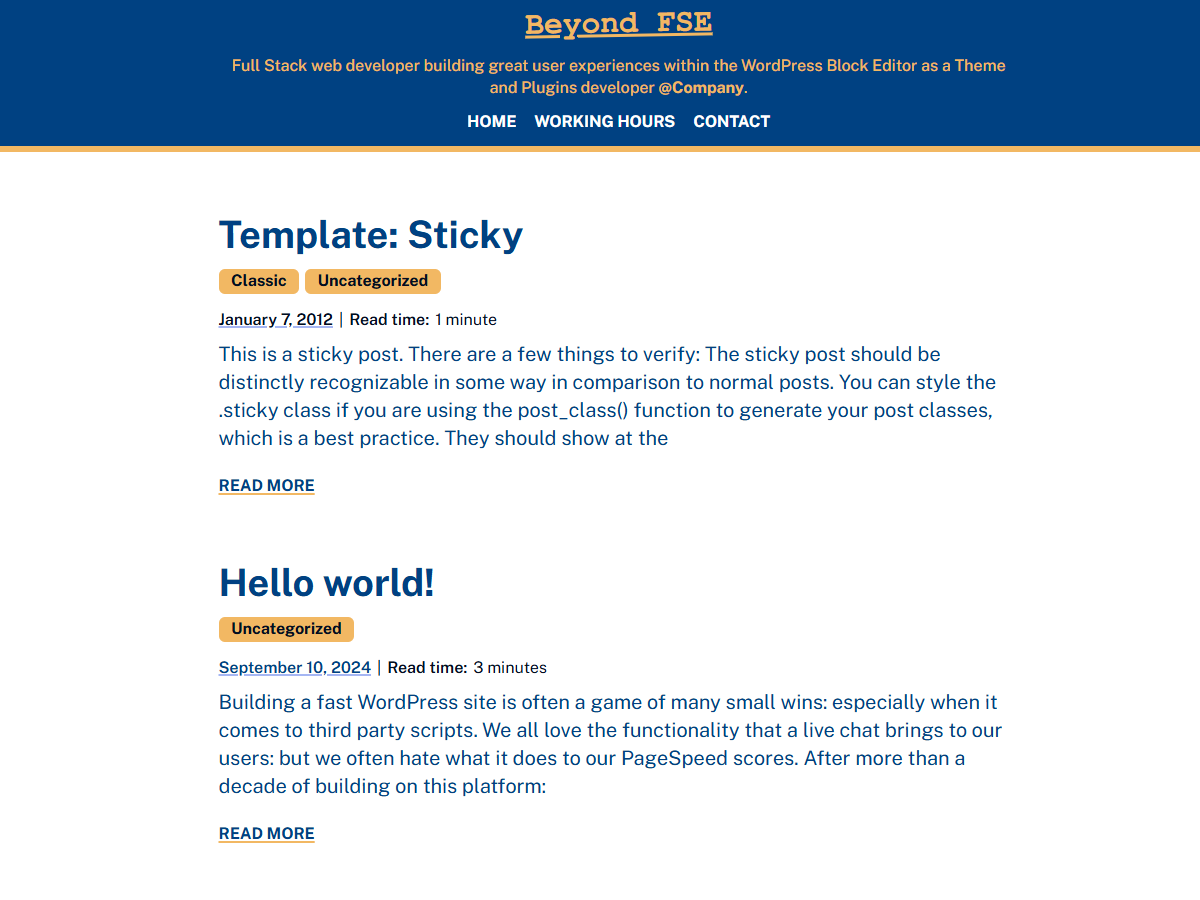
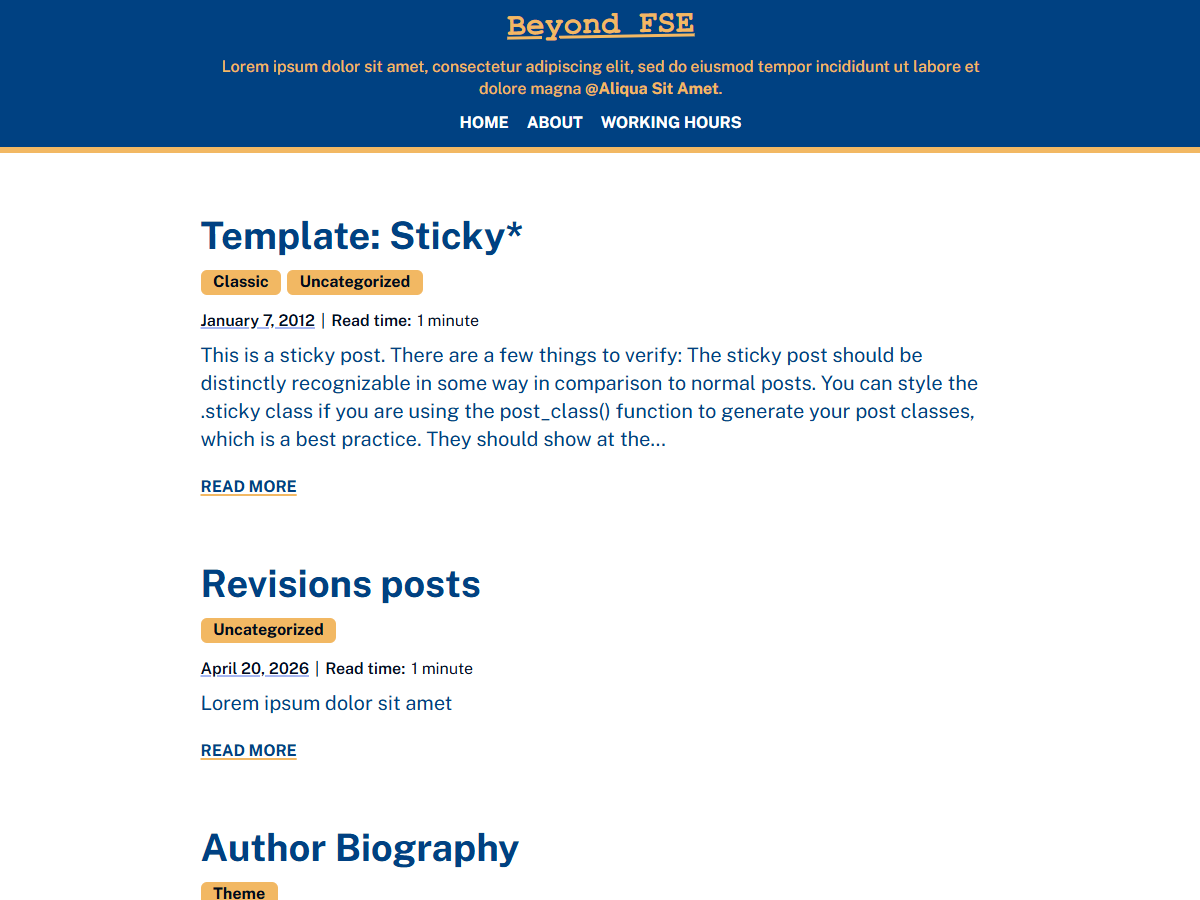
Minor pre release translation fixes and improvements.

diff --git a/parts/header.html b/parts/header.html
@@ -3,7 +3,7 @@
 <div class="wp-block-group"><!-- wp:site-title {"textAlign":"center","className":"bfse-rotate-minus-1deg","style":{"elements":{"link":{"color":{"text":"var:preset|color|warm-insight"}}}},"textColor":"warm-insight","fontSize":"large","fontFamily":"code"} /-->
 
 <!-- wp:paragraph {"align":"center","style":{"elements":{"link":{"color":{"text":"var:preset|color|warm-insight"}}},"typography":{"fontStyle":"normal","fontWeight":"500"}},"textColor":"warm-insight","fontSize":"small"} -->
-<p class="has-text-align-center has-warm-insight-color has-text-color has-link-color has-small-font-size" style="font-style:normal;font-weight:500">Full-Stack Code Weaver crafting immersive digital ecosystems within the Next-Gen Block Matrix as a Core and Module Architect <strong>@LittelPixelius Example Company</strong>.</p>
+<p class="has-text-align-center has-warm-insight-color has-text-color has-link-color has-small-font-size" style="font-style:normal;font-weight:500">Lorem ipsum dolor sit amet, consectetur adipiscing elit, sed do eiusmod tempor incididunt ut labore et dolore magna <strong>@Aliqua Sit Amet</strong>.</p>
 <!-- /wp:paragraph -->
 
 

diff --git a/style.css b/style.css
@@ -4,8 +4,8 @@ Theme URI: https://github.com/dimikjones/beyond-fse
 Author: Marko Dimitrijević
 Author URI: https://markocodes.com/
 Description: FSE WordPress theme for personal blogs featuring full site editing capabilities and exceptional performance.
-Version: 1.0.0
-Requires at least: 6.9
+Version: 1.0.1
+Requires at least: 6.8
 Tested up to: 7.0
 Requires PHP: 7.4
 License: GPLv2 or later

diff --git a/patterns/page-about.php b/patterns/page-about.php
@@ -21,30 +21,30 @@
 <!-- /wp:image -->
 
 <!-- wp:heading {"level":1,"style":{"typography":{"textAlign":"center"}}} -->
-<h1 class="wp-block-heading has-text-align-center">About me</h1>
+<h1 class="wp-block-heading has-text-align-center"><?php esc_html_e( 'About me', 'beyond-fse' ); ?></h1>
 <!-- /wp:heading -->
 
 <!-- wp:heading -->
-<h2 class="wp-block-heading">Hi there! I am a software engineer, open-source enthusiast, and digital craftsman who has spent the last decade building accessible experiences on the web.</h2>
+<h2 class="wp-block-heading"><?php esc_html_e( 'Hi there! I am a software engineer, open-source enthusiast, and digital craftsman who has spent the last decade building accessible experiences on the web.', 'beyond-fse' ); ?></h2>
 <!-- /wp:heading -->
 
 <!-- wp:paragraph -->
-<p>The journey into web development didn't start with code, but with a passion for digital storytelling and typography. Years ago, while trying to launch a small online magazine, a discovery of WordPress changed everything. What was meant to be a weekend project quickly turned into an obsession. It was fascinating to see how a few lines of styling could completely alter the mood of a page, and how dynamic code could bring content to life.</p>
+<p><?php esc_html_e( 'The journey into web development didn\'t start with code, but with a passion for digital storytelling and typography. Years ago, while trying to launch a small online magazine, a discovery of WordPress changed everything. What was meant to be a weekend project quickly turned into an obsession. It was fascinating to see how a few lines of styling could completely alter the mood of a page, and how dynamic code could bring content to life.', 'beyond-fse' ); ?></p>
 <!-- /wp:paragraph -->
 
 <!-- wp:paragraph -->
-<p>Driven by curiosity, the path led from a casual user into a self-taught developer. Over the years, this career has spanned every corner of the digital ecosystem, from agency life engineering bespoke enterprise solutions to collaborating with global product teams. Having witnessed the web evolve from rigid layouts to fluid, responsive designs, the focus today is fully immersed in the frontier of Full Site Editing, block governance, and performance-first architecture.</p>
+<p><?php esc_html_e( 'Driven by curiosity, the path led from a casual user into a self-taught developer. Over the years, this career has spanned every corner of the digital ecosystem, from agency life engineering bespoke enterprise solutions to collaborating with global product teams. Having witnessed the web evolve from rigid layouts to fluid, responsive designs, the focus today is fully immersed in the frontier of Full Site Editing, block governance, and performance-first architecture.', 'beyond-fse' ); ?></p>
 <!-- /wp:paragraph -->
 
 <!-- wp:paragraph -->
-<p>WordPress is more than just a content management system; it’s an ecosystem built on the radical idea of democratizing publishing. That philosophy dictates the entire approach to building. The focus is always on clean code, semantic markup, and creating intuitive user interfaces that empower creators rather than confusing them.</p>
+<p><?php esc_html_e( 'WordPress is more than just a content management system; it\'s an ecosystem built on the radical idea of democratizing publishing. That philosophy dictates the entire approach to building. The focus is always on clean code, semantic markup, and creating intuitive user interfaces that empower creators rather than confusing them.', 'beyond-fse' ); ?></p>
 <!-- /wp:paragraph -->
 
 <!-- wp:paragraph -->
-<p>When code editors are closed and the screen is dark, inspiration comes from simple things like brewing the perfect cup of coffee, collecting vintage vinyl records, or hitting the mountain trails for a long hike. Spending a weekend disconnected in nature often turns out to be the absolute best way to debug a complex architectural problem.</p>
+<p><?php esc_html_e( 'When code editors are closed and the screen is dark, inspiration comes from simple things like brewing the perfect cup of coffee, collecting vintage vinyl records, or hitting the mountain trails for a long hike. Spending a weekend disconnected in nature often turns out to be the absolute best way to debug a complex architectural problem.', 'beyond-fse' ); ?></p>
 <!-- /wp:paragraph -->
 
 <!-- wp:paragraph -->
-<p>Whether it is collaborating on an open-source project, discussing web performance, or exploring the future of modern block themes, the door is always open for a great conversation. Let's create something meaningful together!</p>
+<p><?php esc_html_e( 'Whether it is collaborating on an open-source project, discussing web performance, or exploring the future of modern block themes, the door is always open for a great conversation. Let\'s create something meaningful together!', 'beyond-fse' ); ?></p>
 <!-- /wp:paragraph --></div>
 <!-- /wp:group -->

diff --git a/patterns/page-now.php b/patterns/page-now.php
@@ -21,42 +21,51 @@
 <!-- /wp:image -->
 
 <!-- wp:heading {"level":1} -->
-<h1 class="wp-block-heading">What I am doing now?</h1>
+<h1 class="wp-block-heading"><?php esc_html_e( 'What I am doing now?', 'beyond-fse' ); ?></h1>
 <!-- /wp:heading -->
 
 <!-- wp:group {"style":{"spacing":{"blockGap":"var:preset|spacing|tiny"}},"layout":{"type":"flex","flexWrap":"nowrap"}} -->
 <div class="wp-block-group"><!-- wp:paragraph -->
-<p><strong>Last updated:</strong></p>
+<p><strong><?php esc_html_e( 'Last updated:', 'beyond-fse' ); ?></strong></p>
 <!-- /wp:paragraph -->
 
 <!-- wp:post-date {"metadata":{"bindings":{"datetime":{"source":"core/post-data","args":{"field":"modified"}}}},"className":"wp-block-post-date__modified-date"} /--></div>
 <!-- /wp:group -->
 
 <!-- wp:paragraph -->
-<p>This is my <strong>Now page</strong>. It’s a place where you can find out what I’m currently focused on throughout the year. My goal is to update it several times annually. While I have seen similar pages on some blogs, I was originally inspired to create mine by fellow developers in the community.</p>
+<p>
+<?php
+	printf(
+		/* translators: %1$s: <strong> tag, %2$s: </strong> tag */
+		esc_html__( 'This is my %1$sNow page%2$s. It’s a place where you can find out what I’m currently focused on throughout the year. My goal is to update it several times annually. While I have seen similar pages on some blogs, I was originally inspired to create mine by fellow developers in the community.', 'beyond-fse' ),
+		'<strong>',
+		'</strong>'
+	);
+	?>
+</p>
 <!-- /wp:paragraph -->
 
 <!-- wp:heading -->
-<h2 class="wp-block-heading">Professional Reading</h2>
+<h2 class="wp-block-heading"><?php esc_html_e( 'Professional Reading', 'beyond-fse' ); ?></h2>
 <!-- /wp:heading -->
 
 <!-- wp:paragraph -->
-<p>I’m the kind of person who learns by doing, catching up on the theory along the way. While this hands-on approach works great for me, I want to allocate more time to reading industry books and staying updated with the latest engineering trends and best practices.</p>
+<p><?php esc_html_e( 'I\'m the kind of person who learns by doing, catching up on the theory along the way. While this hands-on approach works great for me, I want to allocate more time to reading industry books and staying updated with the latest engineering trends and best practices.', 'beyond-fse' ); ?></p>
 <!-- /wp:paragraph -->
 
 <!-- wp:heading -->
-<h2 class="wp-block-heading">Blogging & Sharing Knowledge</h2>
+<h2 class="wp-block-heading"><?php esc_html_e( 'Blogging & Sharing Knowledge', 'beyond-fse' ); ?></h2>
 <!-- /wp:heading -->
 
 <!-- wp:paragraph -->
-<p>Since I’ve finally revamped and launched this new blog, I am excited to start writing again. I plan to blog about web development, share my thoughts on various technical topics, and document my journey. My goal is to share knowledge; I’m a firm believer that the best way to learn more is to teach others.</p>
+<p><?php esc_html_e( 'Since I\'ve finally revamped and launched this new blog, I am excited to start writing again. I plan to blog about web development, share my thoughts on various technical topics, and document my journey. My goal is to share knowledge; I’m a firm believer that the best way to learn more is to teach others.', 'beyond-fse' ); ?></p>
 <!-- /wp:paragraph -->
 
 <!-- wp:heading -->
-<h2 class="wp-block-heading">Industry Insights</h2>
+<h2 class="wp-block-heading"><?php esc_html_e( 'Industry Insights', 'beyond-fse' ); ?></h2>
 <!-- /wp:heading -->
 
 <!-- wp:paragraph -->
-<p>After years of shifts in the tech landscape, the rise of AI, and evolving industry standards, many wonder what the future holds for developers. While the industry faces new questions every year, the passion for writing clean code, solving complex problems, and creating great user experiences remains as strong as ever.</p>
+<p><?php esc_html_e( 'After years of shifts in the tech landscape, the rise of AI, and evolving industry standards, many wonder what the future holds for developers. While the industry faces new questions every year, the passion for writing clean code, solving complex problems, and creating great user experiences remains as strong as ever.', 'beyond-fse' ); ?></p>
 <!-- /wp:paragraph --></div>
 <!-- /wp:group -->

diff --git a/patterns/404-content.php b/patterns/404-content.php
@@ -16,18 +16,26 @@
 ?>
 <!-- wp:group {"align":"wide","layout":{"type":"constrained","justifyContent":"center"}} -->
 <div class="wp-block-group alignwide"><!-- wp:image {"aspectRatio":"16/9","scale":"contain","sizeSlug":"full","linkDestination":"none"} -->
-<figure class="wp-block-image size-full"><img src="<?php echo \esc_url( \get_template_directory_uri() ); ?>/assets/images/404-page-not-found.webp" alt="404 Page not found" style="aspect-ratio:16/9;object-fit:contain"/></figure>
+<figure class="wp-block-image size-full"><img src="<?php echo \esc_url( \get_template_directory_uri() ); ?>/assets/images/404-page-not-found.webp" alt="<?php esc_attr_e( '404 Page not found', 'beyond-fse' ); ?>" style="aspect-ratio:16/9;object-fit:contain"/></figure>
 <!-- /wp:image -->
 
 <!-- wp:heading {"textAlign":"center","level":1,"fontFamily":"code"} -->
-<h1 class="wp-block-heading has-text-align-center has-code-font-family">404: Branch Not Found</h1>
+<h1 class="wp-block-heading has-text-align-center has-code-font-family"><?php esc_html_e( '404: Branch Not Found', 'beyond-fse' ); ?></h1>
 <!-- /wp:heading -->
 
 <!-- wp:paragraph {"align":"center"} -->
-<p class="has-text-align-center">It looks like this page has been force-pushed into oblivion or never existed in this repository. Try checking out <strong><code><a href="/">main</a></code> </strong>or try your luck with search.</p>
+<p class="has-text-align-center">
+<?php
+	printf(
+		/* translators: %s: Link to the homepage/main branch */
+		esc_html__( 'It looks like this page has been force-pushed into oblivion or never existed in this repository. Try checking out %s or try your luck with search.', 'beyond-fse' ),
+		'<strong><code><a href="' . esc_url( home_url( '/' ) ) . '">' . esc_html__( 'main', 'beyond-fse' ) . '</a></code></strong>'
+	);
+	?>
+</p>
 <!-- /wp:paragraph -->
 
-<!-- wp:search {"label":"Search","showLabel":false,"placeholder":"Type...","width":100,"widthUnit":"%","buttonText":"Search"} /-->
+<!-- wp:search {"label":"<?php echo esc_attr__( 'Search', 'beyond-fse' ); ?>","showLabel":false,"placeholder":"<?php echo esc_attr__( 'Type...', 'beyond-fse' ); ?>","width":100,"widthUnit":"%","buttonText":"<?php echo esc_attr__( 'Search', 'beyond-fse' ); ?>"} /-->
 
 <!-- wp:spacer {"height":"10vh"} -->
 <div style="height:10vh" aria-hidden="true" class="wp-block-spacer"></div>

diff --git a/includes/class-theme-supports.php b/includes/class-theme-supports.php
@@ -47,7 +47,11 @@ class Theme_Supports {
 			$title   = \get_the_title( $post_id );
 
 			// We append the title inside a span with our utility class.
-			$sr_text = ' <span class="screen-reader-text">about ' . \esc_html( $title ) . '</span></a>';
+			$sr_text = ' <span class="screen-reader-text">' . sprintf(
+			/* translators: %s: Post or page title */
+				\esc_html__( 'about %s', 'beyond-fse' ),
+				\esc_html( $title )
+			) . '</span></a>';
 
 			// Inject the span before the closing anchor tag.
 			$block_content = str_replace( '</a>', $sr_text, $block_content );
